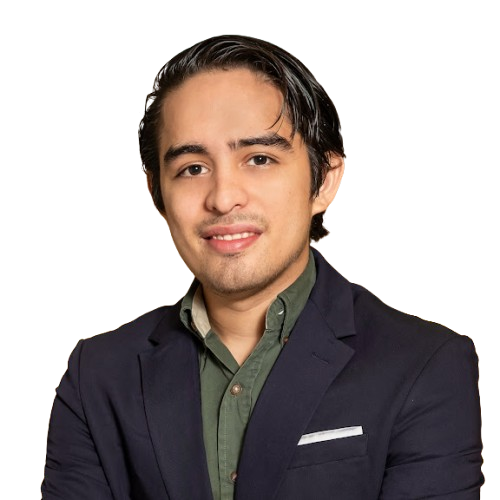
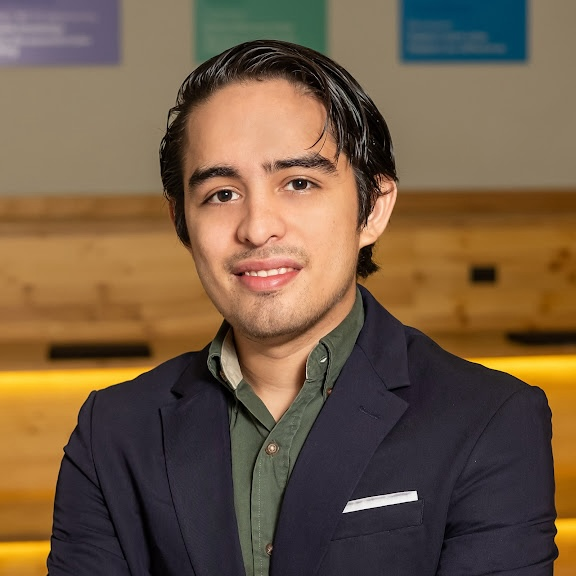
feat: replacing profile image and using it as og image

diff --git a/app/layout.tsx b/app/layout.tsx
@@ -18,6 +18,9 @@ export const metadata: Metadata = {
   title: 'Jose Mejia | Full Stack Developer',
   description:
     'Digital solutions and cloud-based applications with Next.js, React, and Node.js. With 8+ years of expertise in modern JavaScript frameworks, scalable architectures, and high-performance web experiences.',
+  openGraph: {
+    images: '/profile.png',
+  },
 };
 
 export default function RootLayout({
